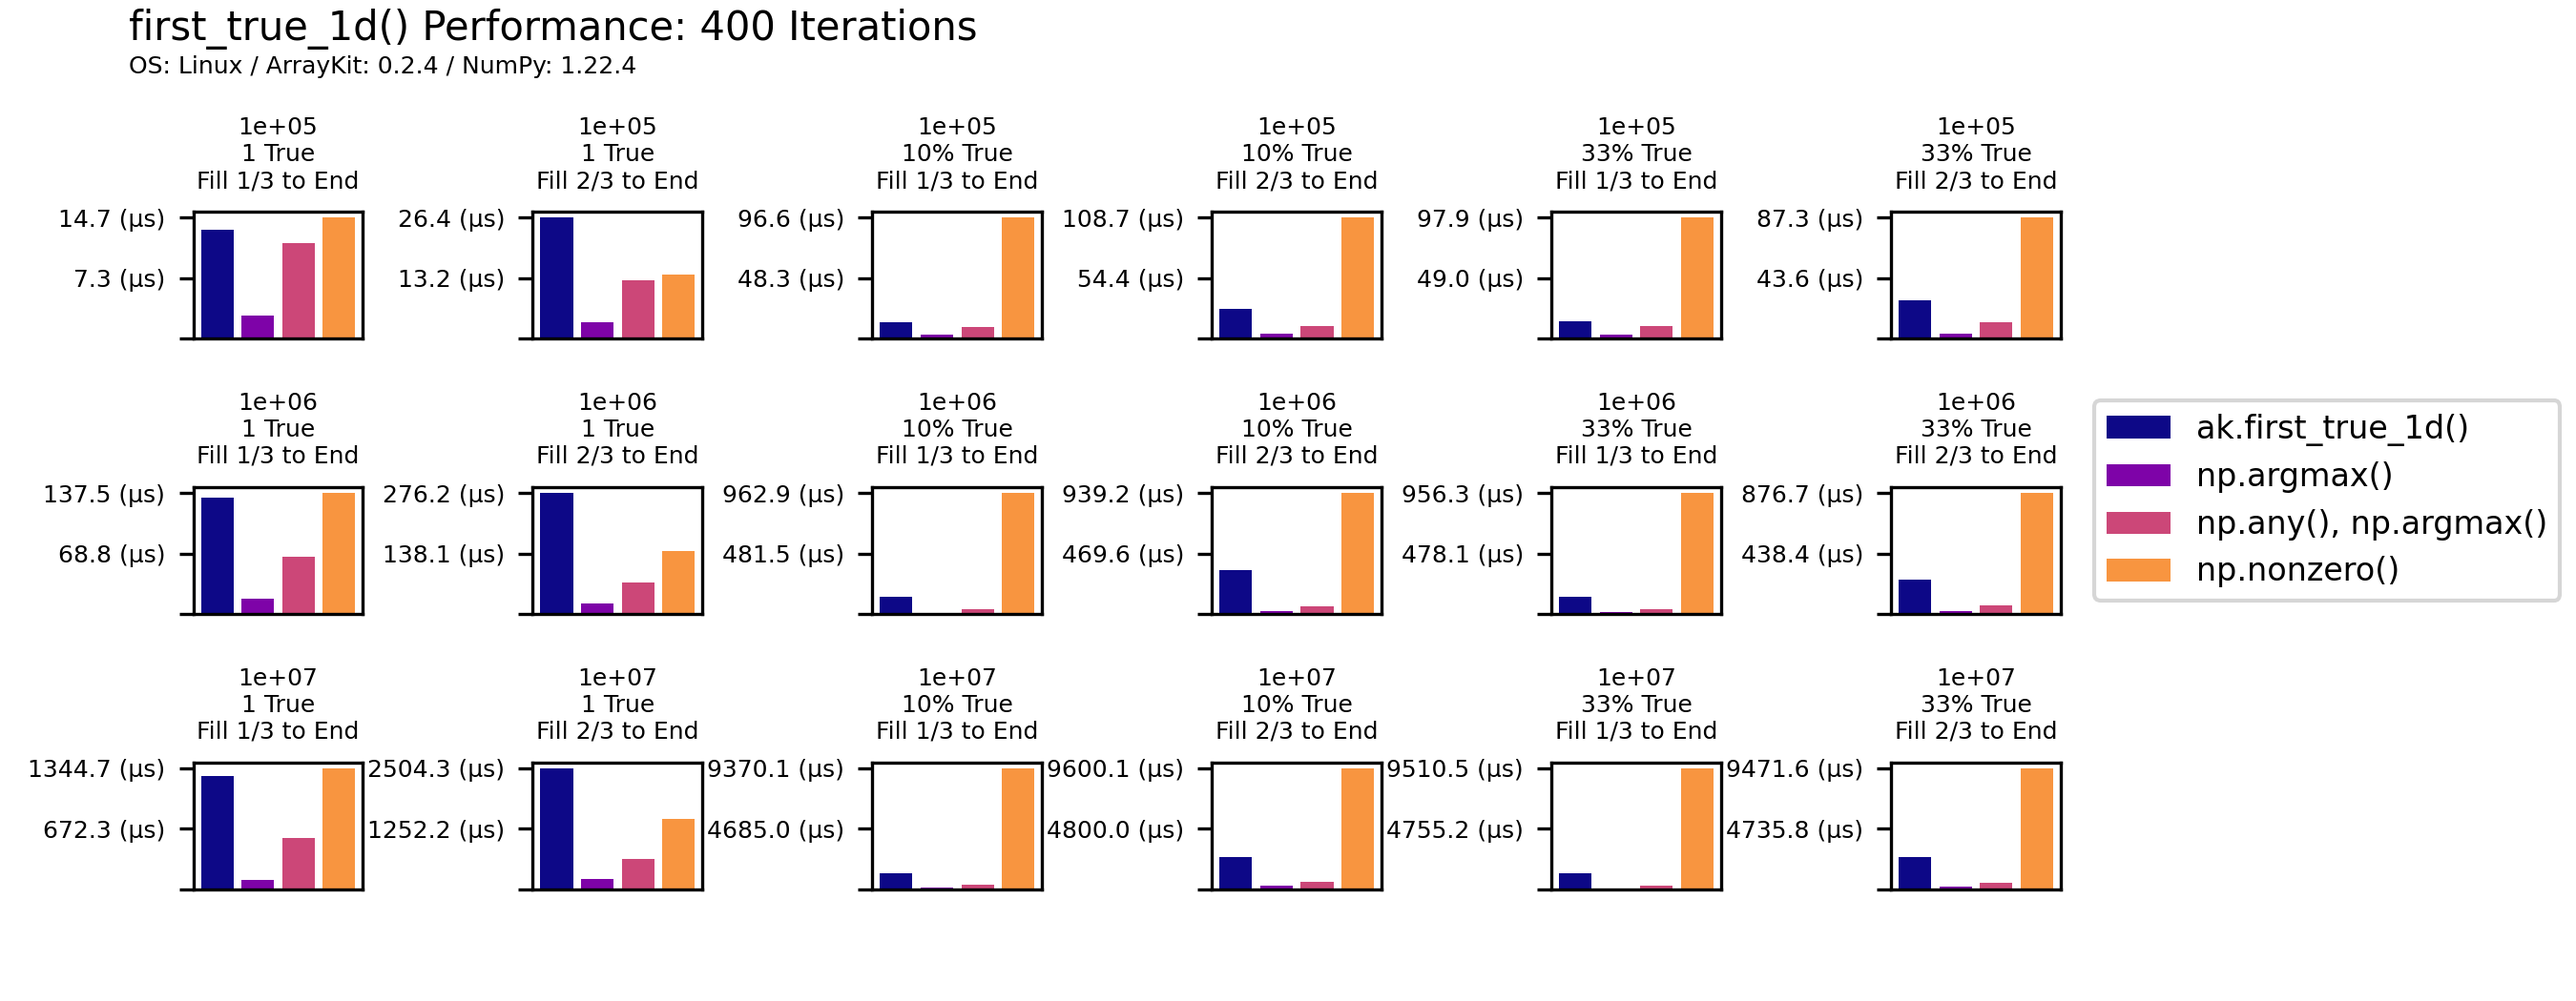
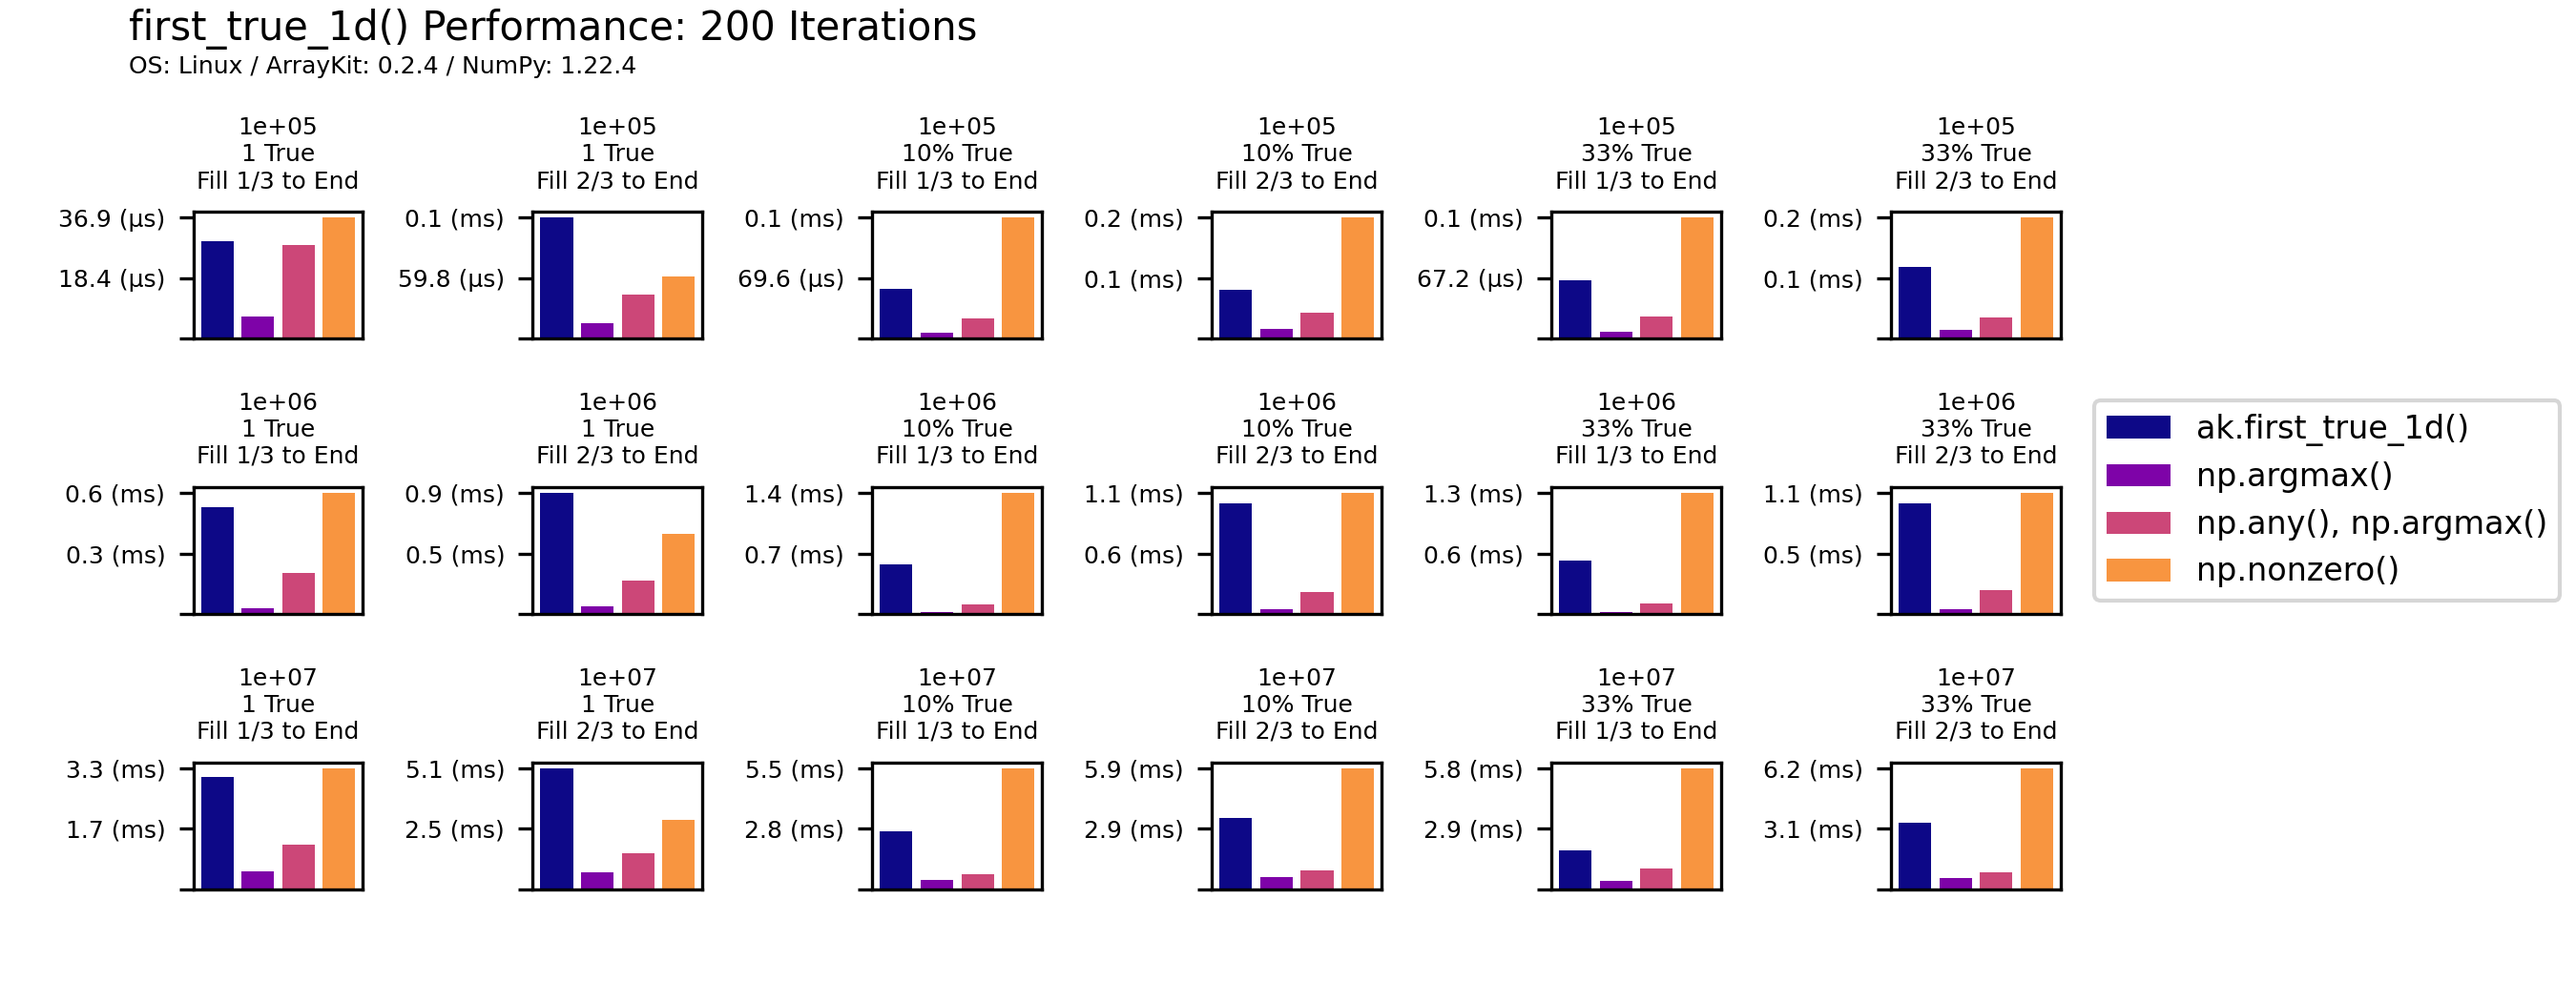
udpated plotting, plot

diff --git a/doc/articles/first_true.py b/doc/articles/first_true.py
@@ -68,6 +68,15 @@ class NPNotAnyArgMax(ArrayProcessor):
 #-------------------------------------------------------------------------------
 NUMBER = 200
 
+def seconds_to_display(seconds: float) -> str:
+    seconds /= NUMBER
+    if seconds < 1e-4:
+        return f'{seconds * 1e6: .1f} (µs)'
+    if seconds < 1e-1:
+        return f'{seconds * 1e3: .1f} (ms)'
+    return f'{seconds: .1f} (s)'
+
+
 def plot_performance(frame):
     fixture_total = len(frame['fixture'].unique())
     cat_total = len(frame['size'].unique())
@@ -104,8 +113,8 @@ def plot_performance(frame):
             time_max = fixture['time'].max()
             ax.set_yticks([0, time_max * 0.5, time_max])
             ax.set_yticklabels(['',
-                    f'{(time_max * 1e6 * .5) / NUMBER:.1f} (µs)',
-                    f'{(time_max * 1e6) / NUMBER:.1f} (µs)',
+                    seconds_to_display(time_max * .5),
+                    seconds_to_display(time_max),
                     ], fontsize=6)
             # ax.set_xticks(x, names_display, rotation='vertical')
             ax.tick_params(
